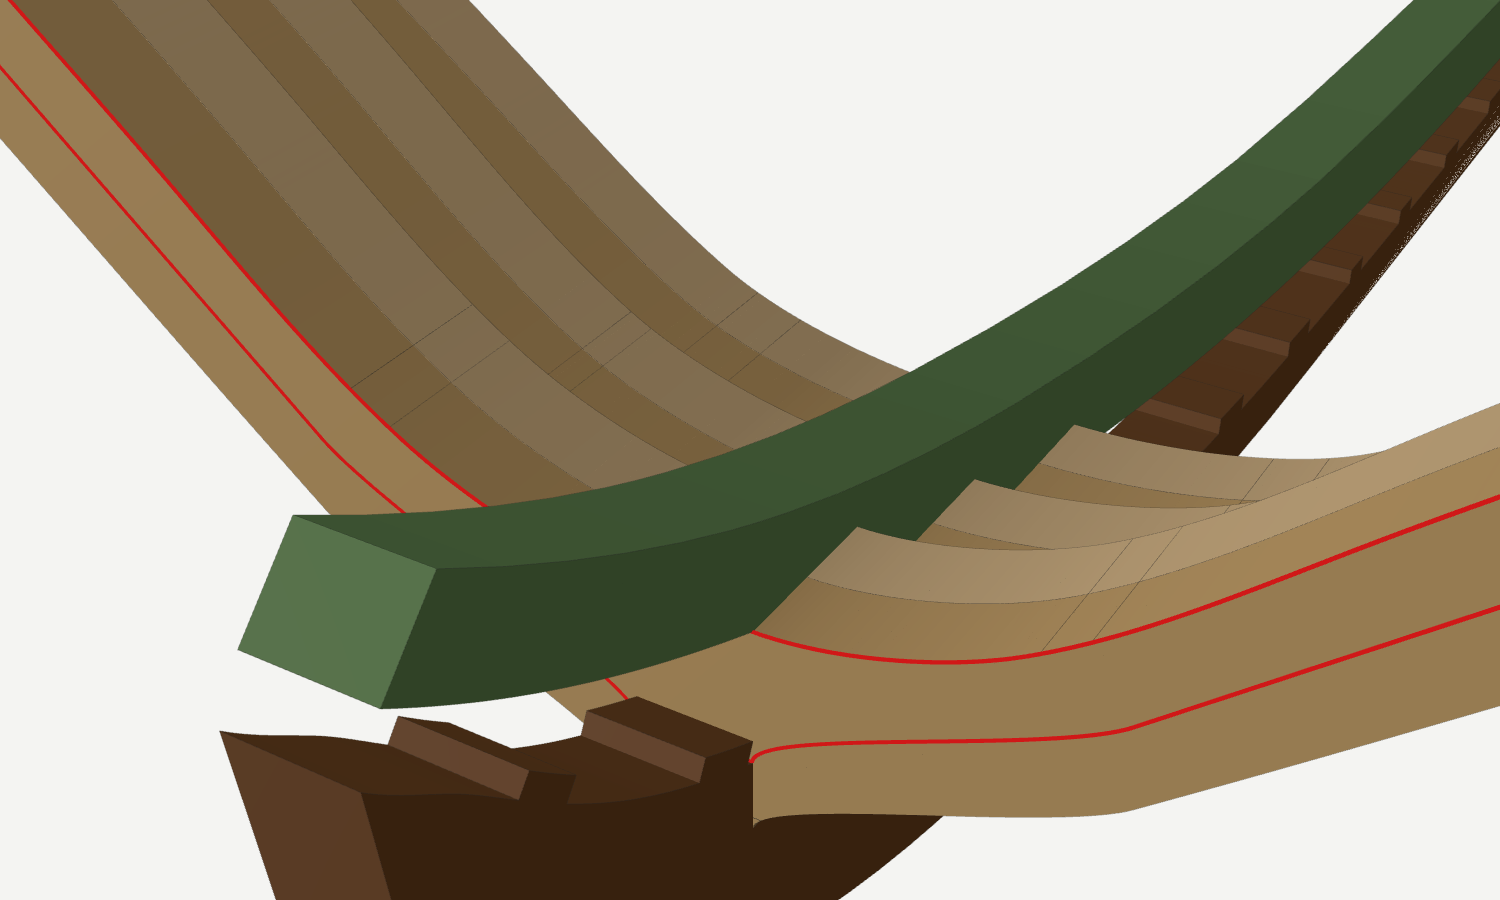
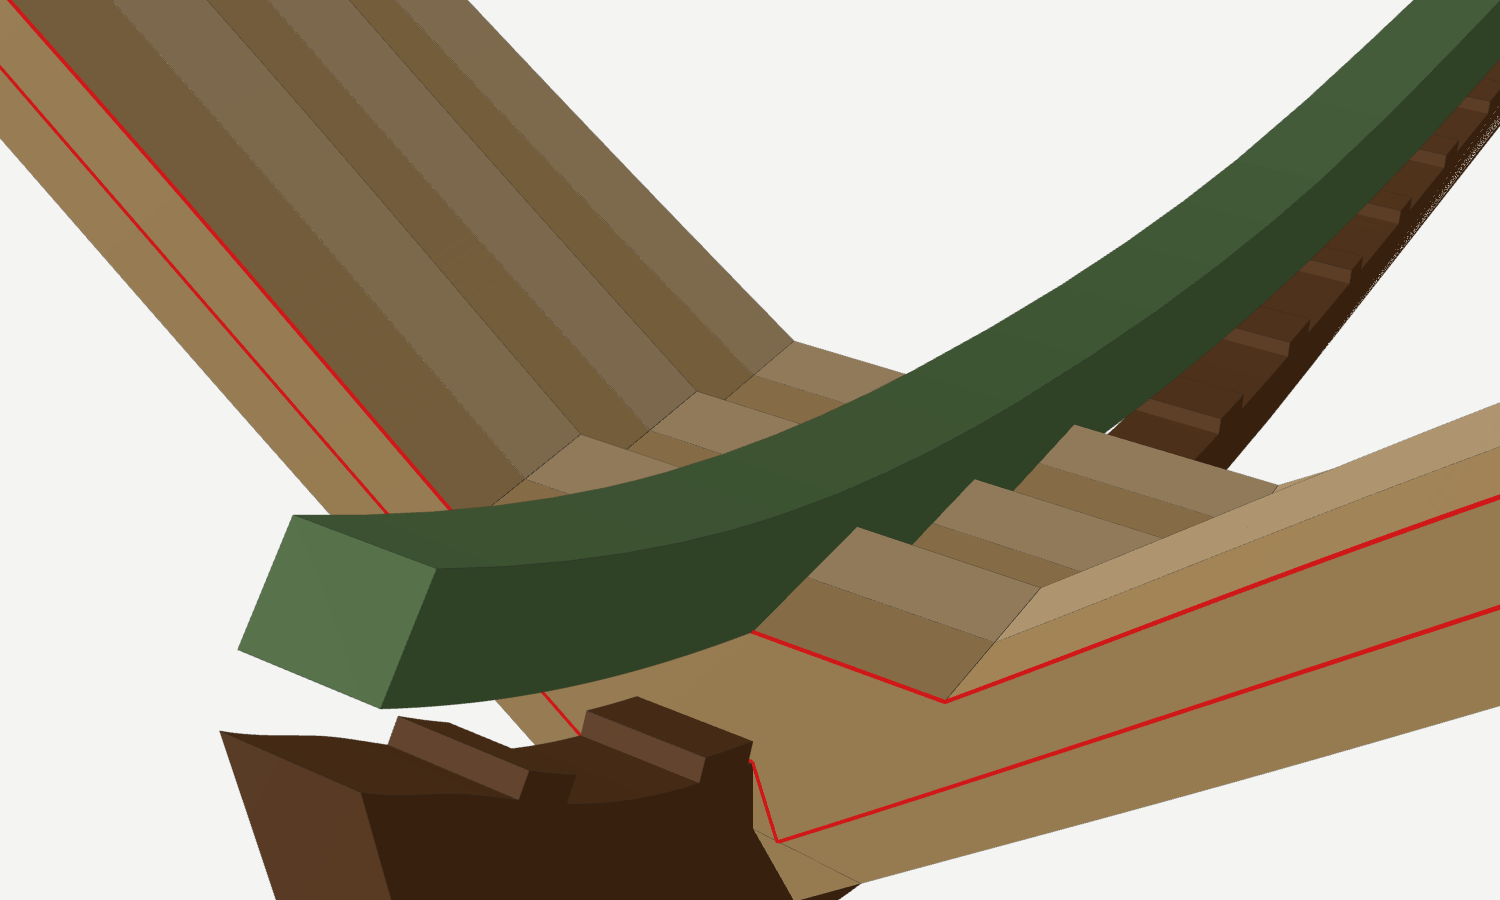
Frames 1-5: sharp non-tangent connections to the horizontal floor and seat lines
Claude-Session: https://claude.ai/code/session_017HV2YHL4JdRTKuYXk76aAy

diff --git a/royal_caroline/py/frames_batch_2d.py b/royal_caroline/py/frames_batch_2d.py
@@ -6,7 +6,7 @@ from scipy.interpolate import splprep,splev
 from scipy.signal import savgol_filter
 import matplotlib; matplotlib.use('Agg'); import matplotlib.pyplot as plt
 import hull_new_sections as HN
-INNER_SMOOTH=__import__('os').environ.get('INNER_SMOOTH','1')=='1'; NOSTEP=__import__('os').environ.get('NOSTEP','0')=='1'; KB=2.65; T=3.2; PEN_LOW=2.5; PEN_UP=float(__import__("os").environ.get("PEN_UP","0.6"))
+SHARP=__import__('os').environ.get('SHARP','1')=='1'; INNER_SMOOTH=__import__('os').environ.get('INNER_SMOOTH','1')=='1'; NOSTEP=__import__('os').environ.get('NOSTEP','0')=='1'; KB=2.65; T=3.2; PEN_LOW=2.5; PEN_UP=float(__import__("os").environ.get("PEN_UP","0.6"))
 BB=json.load(open('data/step44_profiles.json')); XF=json.load(open('data/frames_X.json'))['X_mm']
 PP={k:Polygon(max(v,key=lambda q:Polygon(q).area)).buffer(0) for k,v in BB.items() if k not in('Split1[1]','Split1[2]','Boss-Extrude4[2]')}
 UB=unary_union(list(PP.values()))
@@ -45,6 +45,27 @@ def face_poly(Xf,Xlay):
     top=np.vstack([[[KB,ks_bot],[KB,zt]],sp[1:],I[kk+1:]])
     poly=Polygon(np.vstack([[[0,keel_top],[KB,keel_top],[KB,leg_bot]],O,top[::-1],[[0,ks_bot]]])).buffer(0).intersection(box(0,-10,200,300))
     return poly,dict(keel_top=keel_top,ks_bot=ks_bot,ks_top=ks_top,leg_bot=leg_bot,zt=zt,O=O,I=I)
+def face_poly_sharp(Xf,Xlay):
+    """no radii, no tangent joins: floor (horizontal, +-KB) -> straight to the exact hull line; seat (horizontal) -> straight out until it meets the inner line"""
+    keel_top,(ks_bot,ks_top)=keel_levels(Xlay); leg_bot=keel_top-PEN_LOW
+    P=hull_line(Xf); O=P[np.argsort(P[:,1])]; O=O[O[:,0]>=KB-1e-6]
+    sm=np.c_[savgol_filter(O[:,0],11,3),savgol_filter(O[:,1],11,3)]; d_=np.gradient(sm,axis=0); d_/=np.hypot(*d_.T)[:,None]; m=np.c_[-d_[:,1],d_[:,0]]; I=O+m*T
+    if INNER_SMOOTH:
+        from scipy.interpolate import splprep as _sp,splev as _sv
+        sI=np.r_[0,np.cumsum(np.hypot(*np.diff(I,axis=0).T))]; nn=max(int(sI[-1]/3.0),8); tt=np.linspace(0,sI[-1],nn); Q=np.c_[np.interp(tt,sI,I[:,0]),np.interp(tt,sI,I[:,1])]
+        tk_,u_=_sp(Q.T,k=3,s=nn*0.012); y_,z_=_sv(np.linspace(0,1,len(I)),tk_); I_old=I; I=np.c_[y_,z_]; I[0]=I_old[0]; I[-1]=I_old[-1]
+    i0=int(np.argmax(I[:,0]>=KB-1e-6))
+    cross=np.where((I[i0:,1]>=ks_bot))[0]
+    if len(cross)==0: raise ValueError('inner line never reaches the seat')
+    j=i0+int(cross[0])
+    if j==i0: seat_end=np.array([I[j,0],ks_bot]); top=np.vstack([[[0.0,ks_bot]],[[KB,ks_bot]],I[j:]]) if I[j,0]>KB+1e-6 else np.vstack([[[0.0,ks_bot],[KB,ks_bot]],I[j:]])
+    else:
+        a,b=I[j-1],I[j]; t_=(ks_bot-a[1])/(b[1]-a[1]); Pc=a+t_*(b-a); top=np.vstack([[[0.0,ks_bot]],[Pc],I[j:]])
+    poly=Polygon(np.vstack([[[0,leg_bot],[KB,leg_bot]],O,top[::-1]])).buffer(0).intersection(box(0,-10,200,300))
+    return poly,dict(keel_top=keel_top,ks_bot=ks_bot,ks_top=ks_top,leg_bot=leg_bot,zt=ks_bot,O=O,I=I)
+_face_poly_old=face_poly
+def face_poly(Xf,Xlay):
+    return face_poly_sharp(Xf,Xlay) if (NOSTEP and SHARP) else _face_poly_old(Xf,Xlay)
 
 def frame(OUR):
     xc=XF[OUR-1]; res={}

diff --git a/royal_caroline/STATE.md b/royal_caroline/STATE.md
@@ -310,3 +310,5 @@ Working rules are in `royal_caroline/CLAUDE.md`; read them first.
 - 2026-11-06 frame 5 blank: across the backbone width (+-2.65) two straight horizontal lines: floor on the keel (pocket floor = keel surface - 1 mm) and seat under the keelson (keelson spline level); no legs/steps (NOSTEP branch in frames_batch_2d.py, flat tab in build3d_blanks.py). qa/render3d/d1-d3. Other frames still to be regenerated with this rule.
 
 - 2026-11-06 frames 1-5 blanks with the straight horizontal floor/seat rule: py/build3d_blanks.py 1 2 3 4 5 (+ py/render3d_blanks.py) -> qa/render3d/e1-e4. Blank excess vs final face: frame 1 x2.5, 2 x2.1, 3 x1.8, 4 x1.7, 5 x1.6 (hull flare over 8 mm).
+
+- 2026-11-06 sharp connections (no radii, non-tangent): face_poly_sharp in frames_batch_2d.py (SHARP=1 with NOSTEP): floor horizontal +-KB -> straight to the exact hull line start; seat horizontal -> straight out to where it meets the inner line. Frames 1-5 blanks regenerated, qa/render3d/e1-e4.
